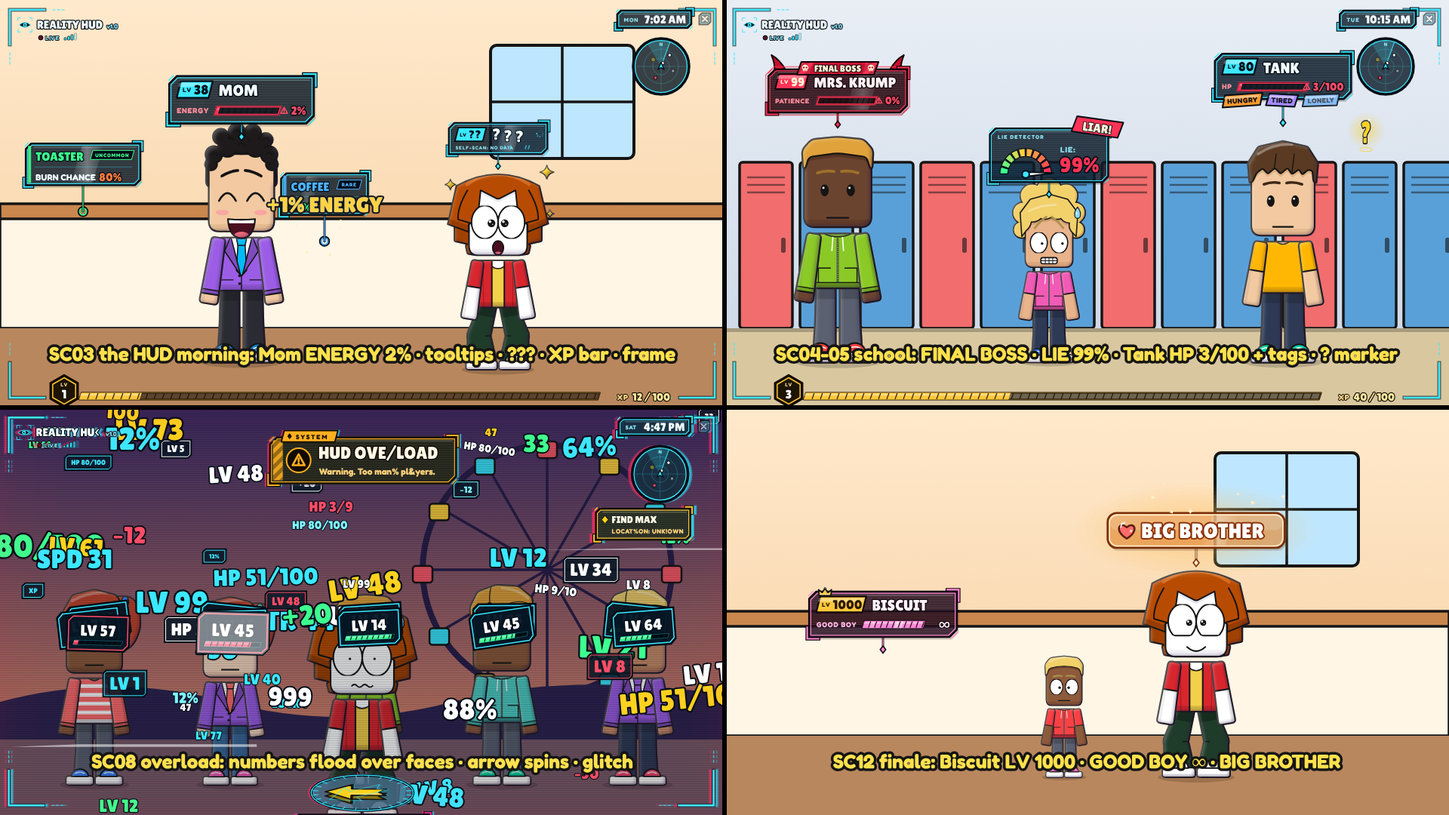
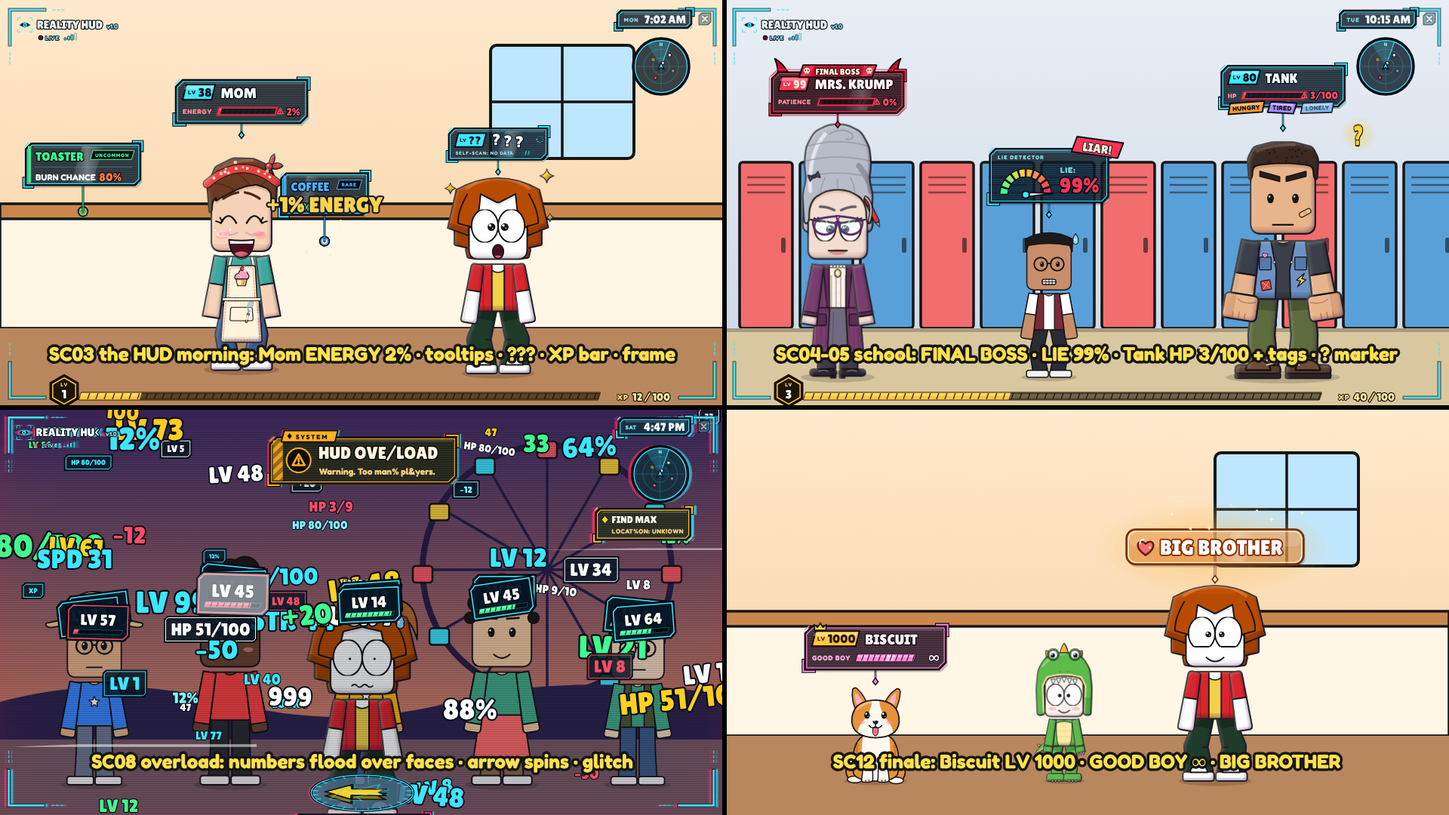
Stats: home sets use real cast + pillow fort, toaster option
Claude-Session: https://claude.ai/code/session_01KRjzSfrZpgfkUyxGDDGG7C

diff --git a/stats/tools/hud_sheet.js b/stats/tools/hud_sheet.js
@@ -63,11 +63,17 @@ const hero = (t, pose = {}, act = {}) => K.actor('you', t, { s: 0.5, ...pose }, 
 // any cast key if it exists, else a generic human stand-in (the stats cast is being drawn in parallel)
 const STATS_CAST = !!(K.draw.grandpa && K.draw.benji && K.draw.tank);   // the new cast is in place
 function person(key, i, pose) {
-  if (STATS_CAST && K.draw[key] && key !== 'kid') { try { return K.actor(key, pose.t || 0, pose); } catch (e) { /* fall through */ } }
+  if (STATS_CAST && K.draw[key]) { try { return K.actor(key, pose.t || 0, ['kid', 'adult'].includes(key) ? { i, ...pose } : pose); } catch (e) { /* fall through */ } }
   const kid = ['benji', 'max', 'kid', 'tank'].includes(key);
   return (kid ? K.draw.humanKid : K.draw.adult)(i, { ...pose, s: (pose.s || 0.5) * (key === 'max' ? 0.72 : key === 'tank' ? 1.22 : 1) });
 }
 // tiles: svg strings or { svg, vb: [x, y, w, h] } (a crop of the 1920x1080 frame); labels at the top (or bottom with lblBottom)
+// a cast member + the head-top point for its plate (H.overHead asks rig/cast.js headTop when it exists)
+function cast(key, i, pose) {
+  const svg = person(key, i, pose);
+  const head = STATS_CAST ? H.overHead(key, pose.x, pose.y, pose.s, 0, ['kid', 'adult'].includes(key) ? { i, ...pose } : pose) : { x: pose.x, y: pose.y - 1000 * pose.s };
+  return { svg, head };
+}
 const grid = (svgs, cols, labels = [], lblBottom = false) => {
   const rows = Math.ceil(svgs.length / cols), w = 1920 / cols, h = 1080 / rows;
   return '<rect width="1920" height="1080" fill="#000"/>' + svgs.map((v, i) => `<svg x="${(i % cols) * w}" y="${Math.floor(i / cols) * h}" width="${w}" height="${h}" viewBox="${(v.vb || [0, 0, 1920, 1080]).join(' ')}" preserveAspectRatio="xMidYMid slice">${v.svg || v}</svg>` + (labels[i] ? LBL(labels[i], (i % cols) * w + w / 2, Math.floor(i / cols) * h + (lblBottom ? h - 62 : 34), 26) : '')).join('') +
@@ -89,37 +95,35 @@ SHEETS.plates = () => {
   const t = T0;
   const tile1 = () => {   // kitchen: mom 2% smiling, grandpa legend, max chaos
     let o = bgKitchen();
-    o += person('mom', 1, { x: 420, y: 960, s: 0.55, face: 'joy', t }) + person('grandpa', 2, { x: 980, y: 960, s: 0.55, t }) + person('max', 3, { x: 1500, y: 960, s: 0.55, t });
-    o += H.plateFor('mom', { x: 420, y: 330, s: 1.05, t });
-    o += H.plateFor('grandpa', { x: 980, y: 330, s: 1.05, t });
-    o += H.plateFor('max', { x: 1500, y: 360, s: 1.05, t });
+    const m = cast('mom', 1, { x: 420, y: 980, s: 0.55, face: 'joy', t }), g = cast('grandpa', 2, { x: 980, y: 980, s: 0.55, t }), x = cast('max', 3, { x: 1500, y: 980, s: 0.55, t });
+    o += m.svg + g.svg + x.svg;
+    o += H.plateFor('mom', { ...m.head, s: 1.0, t }) + H.plateFor('grandpa', { ...g.head, s: 1.0, t }) + H.plateFor('max', { ...x.head, s: 1.0, t });
     return o;
   };
   const tile2 = () => {   // school: krump boss, tank low + tags, benji clumsy
     let o = bgHall();
-    o += person('teacher', 4, { x: 380, y: 960, s: 0.6, t }) + person('tank', 5, { x: 1000, y: 960, s: 0.55, t }) + person('benji', 6, { x: 1560, y: 960, s: 0.5, t });
-    o += H.plateFor('teacher', { x: 380, y: 330, s: 1.05, t });
-    o += H.plateFor('tank', { x: 1000, y: 360, s: 1.05, t });
-    o += H.plateFor('benji', { x: 1560, y: 420, s: 1.05, t });
+    const k = cast('teacher', 4, { x: 360, y: 1000, s: 0.5, t }), tk = cast('tank', 5, { x: 1000, y: 1000, s: 0.5, t }), b = cast('benji', 6, { x: 1580, y: 1000, s: 0.5, t });
+    o += k.svg + tk.svg + b.svg;
+    o += H.plateFor('teacher', { ...k.head, s: 1.0, t }) + H.plateFor('tank', { ...tk.head, s: 1.0, t }) + H.plateFor('benji', { ...b.head, s: 1.0, t });
     return o;
   };
   const tile3 = () => {   // biscuit error -> LV 1000, lunch lady, benji best friend
     let o = bgKitchen();
-    o += H.plateFor('biscuitError', { x: 400, y: 420, s: 1.1, t });
-    o += H.plateFor('biscuit', { x: 400, y: 820, s: 1.1, t });
-    o += H.plateFor('lunchLady', { x: 1250, y: 330, s: 1.05, t });
-    o += H.plateFor('benjiBest', { x: 1250, y: 700, s: 1.05, t });
-    o += H.plateFor('smartKid', { x: 1250, y: 960, s: 0.9, t, theme: 'cold' });
+    const d1 = cast('biscuit', 0, { x: 330, y: 520, s: 0.6, t }), d2 = cast('biscuit', 0, { x: 330, y: 1000, s: 0.6, t, pose: 'beg' });
+    const ll = cast('lunchLady', 0, { x: 1000, y: 1000, s: 0.5, t }), b = cast('benji', 6, { x: 1580, y: 1000, s: 0.5, face: 'happy', t });
+    o += d1.svg + d2.svg + ll.svg + b.svg;
+    o += H.plateFor('biscuitError', { ...d1.head, s: 0.95, t }) + H.plateFor('biscuit', { ...d2.head, s: 0.95, t });
+    o += H.plateFor('lunchLady', { ...ll.head, s: 0.95, t }) + H.plateFor('benjiBest', { ...b.head, s: 0.95, t });
     return o;
   };
   const tile4 = () => {   // the hero: ??? and BIG BROTHER
     let o = bgHall();
-    o += hero(t, { x: 560, y: 980, s: 0.55, face: 'confused' }) + hero(t, { x: 1360, y: 980, s: 0.55, face: 'happy' });
-    o += H.heroPlate({ x: 560, y: 980 - 960 * 0.55 - 6, s: 1.15, t, reveal: 0 });
-    o += H.heroPlate({ x: 1360, y: 980 - 960 * 0.55 - 6, s: 1.15, t, reveal: 1 });
+    const a = cast('you', 0, { x: 560, y: 980, s: 0.55, face: 'confused', t }), b = cast('you', 0, { x: 1360, y: 980, s: 0.55, face: 'happy', t });
+    o += a.svg + b.svg;
+    o += H.heroPlate({ ...a.head, s: 1.15, t, reveal: 0 }) + H.heroPlate({ ...b.head, s: 1.15, t, reveal: 1 });
     return o;
   };
-  return grid([tile1(), tile2(), tile3(), tile4()], 2, ['Mom ENERGY 2% · Grandpa LEGEND · Max CHAOS 9999 HP ∞', 'Krump FINAL BOSS · Tank HP 3/100 + tags · Benji CLUMSY', 'Biscuit ERROR -> LV 1000 · lunch lady · BEST FRIEND: MAX · cold', 'the hero: ??? -> BIG BROTHER']);
+  return grid([tile1(), tile2(), tile3(), tile4()], 2, ['Mom ENERGY 2% · Grandpa LEGEND · Max CHAOS 9999 HP ∞', 'Krump FINAL BOSS · Tank HP 3/100 + tags · Benji CLUMSY', 'Biscuit ERROR -> LV 1000 · lunch lady · BEST FRIEND: MAX', 'the hero: ??? -> BIG BROTHER']);
 };
 
 // in-context overview: four shots across the story
@@ -127,29 +131,31 @@ SHEETS.overview = () => {
   const t = T0;
   const a = () => {   // SC03 kitchen: the HUD morning
     let o = bgKitchen();
-    o += person('mom', 1, { x: 640, y: 960, s: 0.58, face: 'joy', t }) + hero(t, { x: 1320, y: 980, s: 0.55, face: 'amazed' });
-    o += H.plateFor('mom', { x: 640, y: 960 - 1010 * 0.58 - 6, s: 1.1, t });
+    const m = cast('mom', 1, { x: 640, y: 980, s: 0.55, face: 'joy', t }), y = cast('you', 0, { x: 1320, y: 990, s: 0.55, face: 'amazed', t });
+    o += m.svg + y.svg;
+    o += H.plateFor('mom', { ...m.head, s: 1.0, t });
     o += H.tipFor('coffee', { x: 860, y: 640, t, dist: 70 });
     o += H.tipFor('toaster', { x: 220, y: 560, t, dist: 70 });
-    o += H.heroPlate({ x: 1320, y: 980 - 960 * 0.55 - 6, s: 0.9, t });
+    o += H.heroPlate({ ...y.head, s: 0.9, t });
     o += H.xpPop({ x: 860, y: 600, age: 0.25, amount: 1, text: '+1% ENERGY', col: '#FFD23F' });
     o += H.hudFrame({ t, clock: '7:02 AM' }) + H.xpBar({ t, value: 0.12, level: 1, text: '12 / 100' });
     return o;
   };
   const b = () => {   // SC04/05 school: boss, Tank, lie meter, quests
     let o = bgHall();
-    o += person('teacher', 4, { x: 300, y: 960, s: 0.6, t }) + person('kid', 7, { x: 860, y: 960, s: 0.5, face: 'nervous', t }) + person('tank', 5, { x: 1480, y: 960, s: 0.55, t });
-    o += H.plateFor('teacher', { x: 300, y: 330, s: 1.0, t });
-    o += H.lieMeter({ x: 860, y: 520, s: 0.95, t });
-    o += H.plateFor('tank', { x: 1480, y: 330, s: 1.05, t });
-    o += H.questMarker({ x: 1700, y: 400, t, kind: '?', s: 0.6 });
+    const k = cast('teacher', 4, { x: 300, y: 1000, s: 0.5, t }), kd = cast('kid', 3, { x: 860, y: 1000, s: 0.5, face: 'nervous', t }), tk = cast('tank', 5, { x: 1480, y: 1000, s: 0.5, t });
+    o += k.svg + kd.svg + tk.svg;
+    o += H.plateFor('teacher', { ...k.head, s: 0.95, t });
+    o += H.lieMeter({ ...kd.head, s: 0.95, t });
+    o += H.plateFor('tank', { ...tk.head, s: 0.95, t });
+    o += H.questMarker({ x: tk.head.x + 200, y: tk.head.y + 60, t, kind: '?', s: 0.55 });
     o += H.hudFrame({ t, clock: '10:15 AM', day: 'TUE' }) + H.xpBar({ t, value: 0.4, level: 3, text: '40 / 100' });
     return o;
   };
   const c = () => {   // SC08 fair: overload
     let o = bgFair();
     const faces = [];
-    for (let i = 0; i < 5; i++) { const x = 250 + i * 360, y = 1000; o += K.draw.adult(i + 2, { x, y, s: 0.5 }); faces.push({ x, y: y - 0.5 * 1043 + 105, r: 66 }); }
+    for (let i = 0; i < 5; i++) { const p = cast('adult', i + 2, { x: 250 + i * 360, y: 1000, s: 0.5, t }); o += p.svg; faces.push({ x: p.head.x, y: p.head.y + 75, r: 66 }); }
     o += hero(t, { x: 960, y: 1090, s: 0.6, face: 'scared' });
     o += H.numbersFlood({ t, k: 0.68, faces });
     o += H.questArrow({ x: 960, y: 1020, t, glitch: 1, s: 0.9 });
@@ -159,9 +165,10 @@ SHEETS.overview = () => {
   };
   const d = () => {   // SC12 living room: Biscuit + BIG BROTHER
     let o = bgKitchen();
-    o += hero(t, { x: 1250, y: 980, s: 0.58, face: 'happy' }) + person('max', 3, { x: 900, y: 980, s: 0.58, t });
-    o += H.plateFor('biscuit', { x: 420, y: 640, s: 1.05, t });
-    o += H.heroPlate({ x: 1250, y: 980 - 960 * 0.58 - 6, s: 1.1, t, reveal: 1 });
+    const y = cast('you', 0, { x: 1300, y: 990, s: 0.55, face: 'happy', t }), mx = cast('max', 3, { x: 900, y: 990, s: 0.55, t }), dg = cast('biscuit', 0, { x: 400, y: 990, s: 0.6, t });
+    o += y.svg + mx.svg + dg.svg;
+    o += H.plateFor('biscuit', { ...dg.head, s: 1.0, t });
+    o += H.heroPlate({ ...y.head, s: 1.1, t, reveal: 1 });
     return o;
   };
   return grid([a(), b(), c(), d()], 2, ['SC03 the HUD morning: Mom ENERGY 2% · tooltips · ??? · XP bar · frame', 'SC04-05 school: FINAL BOSS · LIE 99% · Tank HP 3/100 + tags · ? marker', 'SC08 overload: numbers flood over faces · arrow spins · glitch', 'SC12 finale: Biscuit LV 1000 · GOOD BOY ∞ · BIG BROTHER'], true);

diff --git a/stats/scenes/sets_fair.js b/stats/scenes/sets_fair.js
@@ -421,8 +421,9 @@ function crowdPeople(row, vx0, vx1, dens = 1) {
 }
 // draw crowd rows (world space). o: { tone, t, cheer 0..1, light 0..1 (0 = silhouette), sil (silhouette colour), dens, faces,
 //   zoom (screen scale of the layer: picks the level of detail), x0, x1 (visible range) }
-// One stroked silhouette per person (torso + arms as one shape), stroked head + hair/hat; legs/hands are plain fills.
-// LOD by on-screen scale: < .12 no outlines / faces, < .22 no leg outlines, else full.
+// Cheap outlines: per row ONE dark silhouette path (every part grown by half a line width) under unstroked colour parts that
+// leave small gaps, so the dark shows as lines between head / torso / arms; only hair + hats are stroked.
+// LOD by on-screen scale: < .12 no outlines / faces; < .22 no mouths; legs only on rows marked legs !== false.
 function crowd(rows, o = {}) {
   const tn = o.tone || tone(), t = o.t || 0, cheer = b01(o.cheer), lt_ = o.light ?? 1, sil = o.sil || '#2A1E44', zs = o.zoom ?? 1;
   const col = (c) => (lt_ >= 1 ? tn.c(c) : mix(tn.c(c), sil, 1 - lt_));
@@ -430,28 +431,33 @@ function crowd(rows, o = {}) {
   for (const row of rows) {
     const ppl = row.people || crowdPeople(row, o.x0 ?? -1e9, o.x1 ?? 1e9, o.dens ?? 1);
     if (!ppl.length) continue;
-    const ss = row.s * zs, lod = ss < 0.12 ? 0 : ss < 0.22 ? 1 : 2;
+    const ss = row.s * zs, lod = row.outline === false ? 0 : ss < 0.12 ? 0 : ss < 0.22 ? 1 : 2;
     const B = { legs: new Map(), body: new Map(), head: new Map(), hands: new Map(), hair: new Map(), hat: new Map(), ball: new Map() };
     const add = (m, c, d) => m.set(c, (m.get(c) || '') + d);
-    let eyes = '', mouth = '', strings = '', seams = '';
+    let eyes = '', mouth = '', strings = '', silD = '';
     const faces = o.faces !== false && lt_ > 0.45 && lod > 0;
+    const legs = row.legs !== false;
     for (const p of ppl) {
-      const s = p.s, x = p.x;
+      const s = p.s, x = p.x, e = 6 * s;
       const up = cheer * (p.up < 0.85 ? 1 : 0.15);
       const bob = up > 0.05 ? Math.abs(Math.sin(t * 7.5 + p.ph)) * 26 * s * up : Math.sin(t * 2.1 + p.ph) * 4 * s;
       const y = p.y - bob, X_ = (v) => f(x + v * s), Y_ = (v) => f(y + v * s);
-      if (row.legs !== false) add(B.legs, p.pants, `M${X_(-92)} ${Y_(-300)}H${X_(92)}V${f(p.y)}H${X_(10)}V${Y_(-150)}H${X_(-10)}V${f(p.y)}H${X_(-92)}Z`);
+      // a rect in body units (x0, y0, w, h) -> colour part + its grown silhouette
+      const part = (m, c, x0, y0, w, h) => { add(m, c, dR(x + x0 * s, y + y0 * s, w * s, h * s)); if (lod) silD += dR(x + x0 * s - e, y + y0 * s - e, w * s + 2 * e, h * s + 2 * e); };
+      if (legs) { add(B.legs, p.pants, `M${X_(-92)} ${Y_(-292)}H${X_(92)}V${f(p.y)}H${X_(8)}V${Y_(-150)}H${X_(-8)}V${f(p.y)}H${X_(-92)}Z`); if (lod) silD += dR(x - 92 * s - e, y - 292 * s, 184 * s + 2 * e, p.y - y + 292 * s + e); }
+      part(B.body, p.shirt, -104, -524, 208, 244);
       if (up > 0.05) {
         const sw = Math.sin(t * 6.5 + p.ph) * 22 * up, ah = 230 * up, tl = -520 - ah + sw, trr = -520 - ah - sw;
-        add(B.body, p.shirt, `M${X_(-158)} ${Y_(tl)}H${X_(-106)}V${Y_(-530)}H${X_(106)}V${Y_(trr)}H${X_(158)}V${Y_(-462)}H${X_(104)}V${Y_(-280)}H${X_(-104)}V${Y_(-462)}H${X_(-158)}Z`);
-        add(B.hands, p.skin, dR(x - 158 * s, y + (tl - 42) * s, 52 * s, 44 * s) + dR(x + 106 * s, y + (trr - 42) * s, 52 * s, 44 * s));
+        part(B.body, p.shirt, -162, tl, 50, -462 - tl); part(B.body, p.shirt, 112, trr, 50, -462 - trr);
+        part(B.hands, p.skin, -162, tl - 44, 50, 40); part(B.hands, p.skin, 112, trr - 44, 50, 40);
       } else {
-        add(B.body, p.shirt, `M${X_(-156)} ${Y_(-528)}H${X_(156)}V${Y_(-338)}H${X_(104)}V${Y_(-280)}H${X_(-104)}V${Y_(-338)}H${X_(-156)}Z`);
-        add(B.hands, p.skin, dR(x - 156 * s, y - 338 * s, 50 * s, 46 * s) + dR(x + 106 * s, y - 338 * s, 50 * s, 46 * s));
+        part(B.body, p.shirt, -162, -522, 50, 180); part(B.body, p.shirt, 112, -522, 50, 180);
+        part(B.hands, p.skin, -162, -336, 50, 44); part(B.hands, p.skin, 112, -336, 50, 44);
       }
       // head (R6 block) + hair / hat
-      const hw = 196 * s, hh = 210 * s, hx_ = x + Math.sin(t * 1.3 + p.ph) * 4 * s, ht = y - 540 * s - hh;
+      const hw = 196 * s, hh = 206 * s, hx_ = x + Math.sin(t * 1.3 + p.ph) * 4 * s, ht = y - 548 * s - hh;
       add(p.back ? B.hair : B.head, p.back ? p.hair : p.skin, lod === 0 ? dR(hx_ - hw / 2, ht, hw, hh) : dRR(hx_ - hw / 2, ht, hw, hh, 30 * s));
+      if (lod) silD += dRR(hx_ - hw / 2 - e, ht - e, hw + 2 * e, hh + 2 * e, 34 * s);
       if (p.hk === 0) add(B.hat, p.hat, `M${f(hx_ - hw / 2 - 4 * s)} ${f(ht - 26 * s)}H${f(hx_ + hw / 2 + 4 * s)}V${f(ht + 22 * s)}H${f(p.back ? hx_ + hw / 2 + 4 * s : hx_ + hw / 2 + 50 * s)}V${f(ht + 42 * s)}H${f(p.back ? hx_ - hw / 2 - 50 * s : hx_ - hw / 2 - 4 * s)}Z`);
       else if (p.hk === 1) add(B.hair, p.hair, `M${f(hx_ - hw / 2 - 8 * s)} ${f(ht + 80 * s)}V${f(ht - 14 * s)}H${f(hx_ + hw / 2 + 8 * s)}V${f(ht + 54 * s)}L${f(hx_ + hw * 0.12)} ${f(ht + 36 * s)}L${f(hx_ - hw * 0.28)} ${f(ht + 52 * s)}Z`);
       else if (p.hk === 2) add(B.hair, p.hair, `M${f(hx_ - hw / 2 - 6 * s)} ${f(ht + hh * 0.75)}V${f(ht - 22 * s)}H${f(hx_ + hw / 2 + 6 * s)}V${f(ht + hh * 0.75)}H${f(hx_ + hw / 2 - 28 * s)}V${f(ht + 36 * s)}H${f(hx_ - hw / 2 + 28 * s)}V${f(ht + hh * 0.75)}Z`);
@@ -467,21 +473,19 @@ function crowd(rows, o = {}) {
       }
       if (p.ball) {
         const bx = x + 150 * s + Math.sin(t * 1.7 + p.ph) * 18 * s, by = y - 1050 * s + Math.sin(t * 2.3 + p.ph) * 12 * s;
-        strings += `M${f(x + 132 * s)} ${f(y - 330 * s)}Q${f(x + 170 * s)} ${f(y - 640 * s)} ${f(bx)} ${f(by + 95 * s)}`;
+        strings += `M${f(x + 137 * s)} ${f(y - 300 * s)}Q${f(x + 170 * s)} ${f(y - 640 * s)} ${f(bx)} ${f(by + 95 * s)}`;
         add(B.ball, p.ball, dE(bx, by, 80 * s, 95 * s));
       }
     }
     const sw = Math.max(1.4, 12 * row.s);
-    const st = lod === 0 || row.outline === false ? null : { stroke: tn.line, 'stroke-width': f(sw), 'stroke-linejoin': 'miter' };
-    const fa = (c, stroke = true) => (stroke && st ? { fill: col(c), ...st } : { fill: col(c) });
-    for (const [c, d] of B.legs) out += P(d, fa(c, lod === 2));
-    for (const [c, d] of B.body) out += P(d, fa(c));
-    for (const [c, d] of B.hands) out += P(d, fa(c, false));
-    for (const k of ['head', 'hair', 'hat']) for (const [c, d] of B[k]) out += P(d, fa(c));
+    const st = lod ? { stroke: tn.line, 'stroke-width': f(sw), 'stroke-linejoin': 'miter' } : null;
+    if (silD) out += P(silD, { fill: tn.line });
+    for (const k of ['legs', 'body', 'hands', 'head']) for (const [c, d] of B[k]) out += P(d, { fill: col(c) });
+    for (const k of ['hair', 'hat']) for (const [c, d] of B[k]) out += P(d, st ? { fill: col(c), ...st } : { fill: col(c) });
     if (eyes) out += P(eyes, { fill: LINE });
     if (mouth) out += P(mouth, cheer > 0.3 ? { fill: '#6A1A2A' } : { fill: 'none', stroke: LINE, 'stroke-width': f(Math.max(1.4, 8 * row.s)), 'stroke-linecap': 'round' });
     if (strings) out += P(strings, { fill: 'none', stroke: col('#F6F0E2'), 'stroke-width': f(Math.max(1, 5 * row.s)) });
-    for (const [c, d] of B.ball) out += P(d, { ...fa(c), fill: lt_ >= 1 ? c : col(c) });
+    for (const [c, d] of B.ball) out += P(d, st ? { fill: lt_ >= 1 ? c : col(c), ...st } : { fill: lt_ >= 1 ? c : col(c) });
   }
   return out;
 }

diff --git a/stats/scenes/sets_town.js b/stats/scenes/sets_town.js
@@ -820,8 +820,8 @@ function mirrorLayers(t, o = {}) {
     m += G(R(-70, -60, 140, 110, 18, ol('#E8ECF2', 5)) + R(-50, 50, 100, 22, 6, ol('#BCC4D2', 4)) + TF('PUSH', 0, 0, 22, '#5A5470') + CI(0, 26, 8, { fill: '#5A5470' }), tr(1760, 470));
     m += G(R(-90, -40, 180, 80, 10, ol('#FFFFFF', 4)) + TF('WASH YOUR', 0, -6, 24, PUR) + TF('HANDS!', 0, 22, 24, PUR), tr(1060, 260, 1, -3));
     m += R(XL, YT, XR - XL, 60 - YT, 0, { fill: '#F2EEE7' }) + R(200, 20, 1500, 40, 10, { fill: '#FFFFFF', stroke: '#B7AECB', 'stroke-width': 4 });
-    let fr = R(XL, 900, XR - XL, 60, 0, ol('#F4F6FA', 6)) + R(XL, 960, XR - XL, 400, 0, ol('#E2E6EE', 6)) + E(960, 930, 260, 22, ol('#D3DAE4', 5)) + P('M940 930 V880 Q940 850 980 850 H1010', ln(20)) + P('M940 930 V880 Q940 850 980 850 H1010', ln(11, '#D8DEE8'));
-    fr += G(R(-30, -96, 60, 96, 12, ol('#FF8FB0', 4)) + R(-12, -120, 24, 26, 4, ol('#FFFFFF', 3)), tr(1420, 930));
+    let fr = R(XL, 920, XR - XL, 60, 0, ol('#F4F6FA', 6)) + R(XL, 980, XR - XL, 400, 0, ol('#E2E6EE', 6)) + E(960, 950, 300, 24, ol('#D3DAE4', 5)) + E(960, 954, 250, 14, { fill: '#B7C0CE' }) + P('M960 1060 V1000 Q960 974 930 974 H906', ln(20)) + P('M960 1060 V1000 Q960 974 930 974 H906', ln(11, '#D8DEE8'));
+    fr += G(R(-30, -96, 60, 96, 12, ol('#FF8FB0', 4)) + R(-12, -120, 24, 26, 4, ol('#FFFFFF', 3)), tr(1460, 950));
     const th = 70;
     let fg = P(`M-200 -200 H2120 V1280 H-200 Z M${th} ${th} V${1080 - th} H${1920 - th} V${th} Z`, { fill: '#C7CEDA', 'fill-rule': 'evenodd' }) + R(th, th, 1920 - 2 * th, 1080 - 2 * th, 18, ln(7)) + R(th - 20, th - 20, 1920 - 2 * th + 40, 1080 - 2 * th + 40, 26, ln(5, '#FFFFFF', 0.6));
     fg += P('M140 600 L420 120 L520 120 L240 600 Z M1500 1000 L1780 520 L1820 520 L1540 1000 Z', { fill: '#FFFFFF', opacity: 0.14 });
@@ -854,7 +854,7 @@ function mirrorLayers(t, o = {}) {
     if (sx === 1320) { const dr = md(t * 1.6, 1); ct += E(sx + 40, 584 + dr * 60, 5, 7, { fill: '#9FD8FF', opacity: f(1 - dr) }); }
     ct += P(`M${sx - 40} 814 V880 Q${sx - 40} 920 ${sx} 920 Q${sx + 40} 920 ${sx + 40} 880 V840 H${sx + 110}`, ln(16, '#9AA4B4')) ;
   }
-  ct += G(R(-28, -84, 56, 84, 10, ol('#FF8FB0', 4)) + R(-10, -108, 20, 26, 4, ol('#FFFFFF', 3)), tr(960, 642));
+  ct += G(R(-28, -84, 56, 84, 10, ol('#FF8FB0', 4)) + R(-10, -108, 20, 26, 4, ol('#FFFFFF', 3)), tr(790, 642, 0.85));
   ct += G(R(-90, -150, 180, 220, 14, ol('#F2F4F8', 5)) + R(-70, 50, 140, 24, 4, ol('#FFFFFF', 3)) + TF('PAPER', 0, -60, 26, '#8A93A6'), tr(1800, 430));
   let light = R(-500, -500, 2920, 2080, 0, { fill: '#DFF6EE', opacity: 0.06 }) + (flick ? R(-500, -500, 2920, 2080, 0, { fill: '#1A1630', opacity: 0.22 }) : '');
   return { bg: '', mid: m, front: frame + ct, fg: '', light, frontRows: [frame, ct] };
@@ -1399,19 +1399,19 @@ function marquee(x, y, s, lines) {
   let gr = '';
   for (let yy = -240; yy < -100; yy += 30) gr += `M-206 ${yy} H206 `;
   o += P(gr, ln(1.5, '#D8D2E6'));
-  lines.forEach((l, i) => { o += T(l, 0, -208 + i * 64, Math.min(48, 400 / (l.length * 0.56)), '#2A2246', { 'letter-spacing': 2 }); });
+  lines.forEach((l, i) => { o += T(l, 0, -196 + i * 64, Math.min(46, 370 / (l.length * 0.6 + 0.5)), '#2A2246', { 'letter-spacing': 2 }); });
   o += owl(-190, -330, 0.5) + bush(-120, 0, 0.5, '#5CB86A') + bush(140, 0, 0.45);
   return G(o, tr(x, y, s));
 }
 function extCrowd(t, o = {}) {
-  const k = bool01(o.crowd, 0.7);
+  const k = bool01(o.crowd, 0.6);
   if (k <= 0) return [];
   const out = [];
   // walking up the walkway toward the doors
-  for (let i = 0; i < 6; i++) {
+  for (let i = 0; i < 5; i++) {
     if (hash(i * 2.7 + 3) > k) continue;
     const u = md(i / 6 + t * 0.045, 1);
-    const y = lerp(990, 610, u), s = extScale(y);
+    const y = lerp(880, 610, u), s = extScale(y);
     out.push({ x: 960 + (hash(i * 4.1) - 0.5) * 900 * s, y, s, i: i * 13 + 1, pose: 'walk', ph: i * 1.7, view: 'back', speed: 6 });
   }
   // along the sidewalk
@@ -1439,7 +1439,7 @@ function exteriorLayers(t, cam = {}, o = {}) {
   far = G(far, null, { opacity: day ? 1 : 0.92 });
   // trees behind the roof (k .65)
   let back = '';
-  for (let i = 0; i < 14; i++) back += tree(-1400 + i * 360 + hash(i) * 100, 470 + hash(i * 2) * 40, 0.75 + hash(i * 3) * 0.25, { kind: i % 3 === 1 ? 'tall' : 'round', col: i % 2 ? '#56B060' : '#4CA85A', sway: Math.sin(t * 1.1 + i) * 1 });
+  for (let i = 0; i < 14; i++) back += tree(-1400 + i * 360 + hash(i) * 100, 430 + hash(i * 2) * 40, 0.42 + hash(i * 3) * 0.2, { kind: i % 3 === 1 ? 'tall' : 'round', col: i % 2 ? '#56B060' : '#4CA85A', sway: Math.sin(t * 1.1 + i) * 1 });
   // ---------- school + grounds (k 1)
   let m = '';
   m += R(-4000, EX.base - 20, 9000, 2400, 0, { fill: '#78C46E' }) + P(`M-4000 ${EX.base + 60} H5000`, ln(0));
@@ -1566,12 +1566,12 @@ const SPOTS = {
   },
   mirror: {
     hero: { x: 560, y: 1460, s: 0.82, view: 'back' },
-    reflection: { x: 1010, y: 700, s: 0.44, flip: true },
-    qmarks: { x: 1010, y: 215 },
+    reflection: { x: 1030, y: 780, s: 0.52, flip: true },
+    qmarks: { x: 1030, y: 215 },
     clip: 'stMirrorClip', glass: { ...MIR },
     sink: { x: 600, y: 650 }, sinkR: { x: 1320, y: 650 },
-    face: { hero: { x: 960, y: 1080, s: 0.62 }, qmarks: { x: 960, y: 380 } },
-    cams: { over: { x: 0, y: 0, zoom: 1 }, reflection: camAt(1010, 400, 1.7), qmarks: camAt(1010, 300, 2.2), face: { x: 0, y: 0, zoom: 1 }, faceClose: camAt(960, 560, 1.35) },
+    face: { hero: { x: 960, y: 1090, s: 0.7 }, qmarks: { x: 960, y: 330 } },
+    cams: { over: { x: 0, y: 0, zoom: 1 }, reflection: camAt(1030, 400, 1.7), qmarks: camAt(1030, 300, 2.2), face: { x: 0, y: 0, zoom: 1 }, faceClose: camAt(960, 560, 1.35) },
   },
   classroom: {
     rows: CLASS_SEATS,                                         // [row3, row2, row1] seats (back -> front), 2 per table

diff --git a/stats/tools/sheet_town.js b/stats/tools/sheet_town.js
@@ -50,7 +50,7 @@ const TILES = [
   ['class_quiz', 'classroom · quiz · cams.heroDesk (hero + Benji) · quizPaper', (t) => X.classroom.compose(t, { quiz: true }, ['', C.rows[1].map((p) => R1(p)).join(''), R1(C.heroDesk, { face: 'scared' }) + R1(C.benjiDesk, { face: 'nervous' })], mark(C.quizPaper), C.cams.heroDesk)],
   ['class_smart', 'classroom · cams.smart · smart seats + outside (bench, bg space)', (t) => X.classroom.compose(t, { outside: REF ? hero({ x: C.outside.x, y: C.outside.y, s: C.outside.s, face: 'sad' }) : '' }, ['', '', C.smartTable.seats.map((p) => R1(p, { face: 'smug' })).join('')], '', C.cams.smart)],
   ['class_teacher', 'classroom · cams.teacher · board [SCIENCE FAIR…] · teacherFront', (t) => X.classroom.compose(t, { board: ['SCIENCE FAIR', 'PARTNERS:', 'CHOOSE WISELY.'] }, ['', R1(C.teacher, { face: 'angry' })], R1(C.teacherFront, { armR: 100 }), C.cams.teacher)],
-  ['gym', 'gym · dodgeball teams A (flip) / B + coach', (t) => X.gym.compose(t, {}, '', GY.teamA.map((p) => R1(p, { view: 'side', flip: true })).join('') + GY.teamB.map((p) => R1(p, { view: 'side' })).join('') + ref(GY.hero.x, GY.hero.y, GY.hero.s, { face: 'determined' }) + R1(GY.coach))],
+  ['gym', 'gym · dodgeball teams A (flip) / B + coach', (t) => X.gym.compose(t, {}, '', GY.teamA.map((p) => R1(p, { view: 'side', flip: true })).join('') + GY.teamB.filter((p, i) => i !== 2).map((p) => R1(p, { view: 'side' })).join('') + ref(GY.hero.x, GY.hero.y, GY.hero.s, { face: 'determined' }) + R1(GY.coach))],
   ['gym_pick', 'gym · lineup + captain · scoreboard VICTORY · cheer · balls scatter', (t) => X.gym.compose(t, { scoreboard: 'VICTORY!', cheer: 1, balls: 'scatter' }, '', GY.lineup.map((p) => R1(p)).join('') + R1(GY.captain, { view: 'side', armR: 90 }) + line(GY.lineup[0].y))],
   ['gym_fair', 'gym · fair · potato table (hero + Benji), smart kids, judge, parents', (t) => X.gym.compose(t, { fair: true }, [F.backKids.map((p) => R1(p)).join(''), R1(F.heroFair, { face: 'happy' }) + R1(F.benjiFair, { face: 'excited' }) + F.smartKids.slice(0, 2).map((p) => R1(p, { face: 'smug' })).join('')], R1(F.judge) + line(F.judge.y))],
   ['gym_fair2', 'gym · fair · cams.potato · bulb .7 · ribbon potato', (t) => X.gym.compose(t, { fair: true, bulb: 0.7, ribbon: 'potato' }, ['', R1(F.heroFair, { face: 'joy' }) + R1(F.benjiFair, { face: 'excited' })], '', F && GY.cams.potato)],

diff --git a/stats/scenes/hud.js b/stats/scenes/hud.js
@@ -555,11 +555,26 @@ function plateFor(who, over = {}) {
   return statPlate({ ...p, ...over });
 }
 
-// head-top anchors (body units: feet at 0; multiply by s). APPROXIMATE — docs/CAST.md (by the cast author) is authoritative;
-// `you` was measured (953). Pass dy to fine-tune: overHead('tank', x, y, s, -20).
-const HEAD_TOP = { you: 960, hero: 960, mom: 1010, grandpa: 1120, max: 640, benji: 1000, tank: 1200, teacher: 1160, krump: 1160, biscuit: 330, kid: 900, adult: 1050, humanKid: 880, lunchLady: 1080 };
-function overHead(who, x, y, s = 0.5, dy = 0) {
-  const h = typeof who === 'number' ? who : HEAD_TOP[who] ?? 980;
+// head-top anchors. overHead() asks the cast first: rig/cast.js headTop(key, pose) -> the exact screen point at the top of the head
+// (it knows sizes, hoods, sit/beg poses, kid/adult variants i). HEAD_TOP below is only the fallback (body units at s 1, from the cast v1 table).
+const HEAD_TOP = { you: 951, hero: 951, mom: 1110, grandpa: 1112, max: 640, benji: 1100, tank: 1300, teacher: 1328, krump: 1328, biscuit: 432, lunchLady: 1108, coach: 1090, neighbor: 1000, fairWorker: 1080, kid: 830, adult: 1080, humanKid: 880 };
+let _castHeadTop;
+function castHeadTop() {
+  if (_castHeadTop === undefined) { try { const c = require('../rig/cast'); _castHeadTop = typeof c.headTop === 'function' ? c.headTop : null; } catch (e) { _castHeadTop = null; } }
+  return _castHeadTop;
+}
+// overHead(who, x, y, s = 0.5, dy = 0, pose = {}) -> { x, y }: the head-top point (+6 px air) of an actor drawn with feet (x, y) and scale s.
+// pose = the extra pose fields you pass to actor() that move the head (lift, bodyY, headY, hood, dayoff, pose: 'sit'|'beg'..., i for kid/adult).
+// who may also be a number = head height in body units.
+function overHead(who, x, y, s = 0.5, dy = 0, pose = {}) {
+  if (typeof who !== 'number') {
+    const ht = castHeadTop();
+    if (ht && who !== 'humanKid') {
+      try { const p = ht(who === 'krump' ? 'teacher' : who === 'hero' ? 'you' : who, { ...pose, x, y, s }); if (p && Number.isFinite(p.y)) return { x: Number.isFinite(p.x) ? p.x : x, y: p.y - 6 + dy }; } catch (e) { /* fall back to the table */ }
+    }
+  }
+  const key = who === 'krump' ? 'teacher' : who === 'hero' ? 'you' : who;
+  const h = typeof who === 'number' ? who : HEAD_TOP[key] ?? 980;
   return { x, y: y - h * s - 6 + dy };
 }
 

diff --git a/stats/scenes/sets_home.js b/stats/scenes/sets_home.js
@@ -828,7 +828,7 @@ const bedroom = makeSet(bedroomLayers);
 //   plates, pots, the drying rack), pancakes (SC11: YOUR messy breakfast for Mom — crooked pancake stack + syrup heart +
 //   FOR MOM card + OJ + a dandelion in a glass at Mom's seat, batter bowl + whisk + egg shells + flour on the counter, a
 //   pancake in the pan), toast 0..1 (the toaster: 0 down .. .35 popped .. 1 flying), burnt 0..1 (default 1), smoke (default
-//   true when toast > 0 and burnt), cups 0..4 (Mom's empty coffee mugs lined up at her seat), coffee (default true: the
+//   true when toast > 0 and burnt), toaster (default true; false = draw extras' toaster yourself), cups 0..4 (Mom's empty coffee mugs lined up at her seat), coffee (default true: the
 //   carafe half full + steam), boxes (default true: the cupcake box tower), bowls (default true), steam (default true),
 //   lamp 0..1 (pendant; default 1 in the evening), clock 'H:MM', birds (default true by day), chairs (default true) }
 const KT = {
@@ -960,7 +960,7 @@ function kitchenLayers(t, o = {}) {
     }
     // the toaster (SPOT) — unless dishes cover the right counter
     const tk = b01(o.toast);
-    if (!dishes) m += toaster(640, CT.top, 0.88, tn, { toast: tk, burnt: o.burnt, smoke: (o.smoke === undefined ? tk > 0.2 && (o.burnt === undefined || o.burnt > 0.5) : o.smoke) ? t : false, glow: tk > 0 && tk < 0.05 });
+    if (!dishes && o.toaster !== false) m += toaster(640, CT.top, 0.88, tn, { toast: tk, burnt: o.burnt, smoke: (o.smoke === undefined ? tk > 0.2 && (o.burnt === undefined || o.burnt > 0.5) : o.smoke) ? t : false, glow: tk > 0 && tk < 0.05 });
     // SC11 pancake making mess on the counter
     if (pc) {
       m += G(P('M-56 -50 Q-56 0 0 0 Q56 0 56 -50 Z', O('#FFFFFF', 4)) + E(0, -50, 56, 11, O('#F2E2B8', 3.5)) + P('M10 -56 L50 -120', LN(8)) + P('M10 -56 L50 -120', LN(4, '#C9CED8')) + P('M42 -108 q8 -30 22 -24 q-2 20 -14 34', LN(3, '#9AA4B4')), `translate(${KT.stove.x1 + 110} ${CT.top})`);

diff --git a/stats/docs/SETS_HOME.md b/stats/docs/SETS_HOME.md
@@ -3,7 +3,8 @@
 Contact sheet: `concept/sets_home.png` (`node tools/sheet_home.js`; `--only kitchen,street` for some tiles, `--full DIR`
 for full-size PNGs, `--noref` hides the stand-ins / anchor marks). The sheet draws the hero (rig/r6) on every FLOOR line
 and seat, look-alike stand-ins for Mom / Grandpa / Max / Mrs. Wells (the real cast from rig/cast.js once it has `max`), and
-prints elements, JS build ms and browser render ms for every tile (the SET ALONE, all layers, no characters). The last
+prints elements, JS build ms and browser render ms for every tile (the SET ALONE, all layers, no characters). It uses the
+real cast (rig/cast.js: mom, grandpa, max, biscuit) and the real `X.pillowFort` from rig/extras.js. The last
 tile checks four documented camera framings (monitor fill, toaster, the 1979 photo, the fort reveal).
 
 ```js
@@ -139,7 +140,7 @@ a pot, the drying rack, yellow gloves; hides the toaster) · **`pancakes`** (SC1
 heart + butter, the **FOR MOM ♥** card, a dandelion in a glass and the syrup bottle at Mom's end; batter bowl + whisk, egg
 shells, flour puddles on the counter + floor; a pancake in the pan) · **`toast`** 0..1 (the toaster: 0 in the slots … .35
 popped up … 1 flying ~400 px high and spinning) · `burnt` 0..1 (default 1 — the HUD said 80 %) · `smoke` (default on when
-toast > .2 and burnt) · **`cups`** 0..4 (Mom's empty coffee mugs lined up at her end — "she drank four") · `coffee`
+toast > .2 and burnt) · `toaster` (default true; false hides it) · **`cups`** 0..4 (Mom's empty coffee mugs lined up at her end — "she drank four") · `coffee`
 (default true) · `boxes` (default true) · `bowls` · `steam` · `lamp` 0..1 (default 1 in the evening) · `clock 'H:MM'` ·
 `birds` · `chairs`.
 
@@ -273,6 +274,12 @@ inside (bedroom with `pixels`) — or the reverse. The morning establishing: `ti
 ---
 
 ## Props + helpers (exported)
+
+The sets draw their own built-in toaster, alarm clock and sock. `rig/extras.js` (scast) has hand-prop versions of the same
+objects (`toaster({pop, burn, t})`, `alarmClock({ring, t})`, `sock({smell, t})`, `cerealBowl({splash})`, `pancakes`,
+`coffeeMug`, `fryingPan`, `gamingPC`, `tablet`, `pillowFort`). When a character picks one up, hide the set's copy
+(`kitchen toaster: false`, `bedroom alarmClock: false` / `sock: false`) and draw the extras prop at the anchor.
+
 
 `dragonTitle(w, h, t)` (the DRAGON PEAK title screen for any screen box) · `mug(x, y, s, tn, {col, label, handle, steam: t,
 empty})` · `bowl(x, y, s, tn, {col, fill 'cereal'|'milk'|'empty', spoon, splash 0..1})` (splash = the milk crown for Max's
